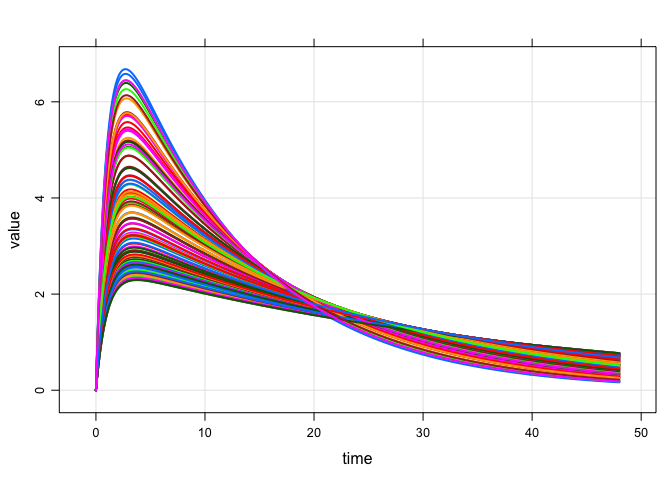
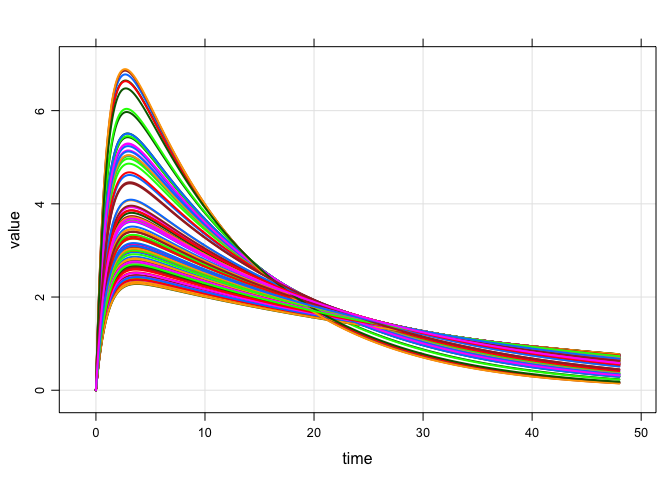
fill in covset.R

diff --git a/misc_demo/covset.md b/misc_demo/covset.md
@@ -70,31 +70,27 @@ mod %>%
 
 ![](img/covset-unnamed-chunk-6-1.png)
 
-``` r
-mod %>% 
-  idata_set(idata, covset="cov2") %>% 
-  simargs %>% lapply(.,head)
-```
-
-    . $idata
-    .   ID GROUP       WT      AGE SEX     FLAG
-    . 1  1     1 97.06778 38.22576   1 28.24057
-    . 2  2     0 93.41336 34.92769   1 33.62317
-    . 3  3     1 59.34391 54.96774   1 28.24057
-    . 4  4     0 76.94537 38.46215   1 33.62317
-    . 5  5     1 88.71913 61.58669   0 28.24057
-    . 6  6     0 50.48138 43.57346   0 33.62317
-
 Working with `covset`
 ---------------------
 
+-   All of the code and workflow that happens "inside" mrgsolve `$ENV` can be implemented in plain old `R`
+
+An "environment" where to find symbols on rhs
+
 ``` r
 e <- as.list(param(mod))
+```
+
+Columns to add to the data set
+
+``` r
 a <- SEX ~ rbinomial(pfe);
 b <- WT[50,100] ~ rnorm(tvwt,40)
 d <- AGE[18,80] ~ rnorm(tvage,20)
 f <- FLAG ~ runif(20,40) | GROUP
 ```
+
+Create the set of covariates that you want to add
 
 ``` r
 cov2 <- covset(d,f,b,a)
@@ -116,6 +112,8 @@ cov2
     . $a
     . [1] "SEX ~ rbinomial(pfe)"
 
+Add covariates to the data
+
 ``` r
 idata %>% mrgsolve:::mutate_random(cov2,envir=e)
 ```
@@ -123,16 +121,16 @@ idata %>% mrgsolve:::mutate_random(cov2,envir=e)
     . # A tibble: 100 × 6
     .       ID GROUP      AGE     FLAG       WT   SEX
     .    <int> <dbl>    <dbl>    <dbl>    <dbl> <dbl>
-    . 1      1     1 56.89700 35.08263 90.49052     1
-    . 2      2     0 20.52915 36.18199 85.44064     0
-    . 3      3     1 20.39806 35.08263 51.62502     0
-    . 4      4     0 23.01154 36.18199 83.46135     0
-    . 5      5     1 34.20830 35.08263 61.99369     1
-    . 6      6     0 67.34234 36.18199 57.98716     1
-    . 7      7     1 29.96251 35.08263 88.32505     0
-    . 8      8     0 25.26993 36.18199 50.81628     1
-    . 9      9     1 66.45105 35.08263 64.45956     0
-    . 10    10     0 62.28655 36.18199 59.65328     1
+    . 1      1     1 44.84579 24.58397 75.91064     1
+    . 2      2     0 72.24736 34.09395 85.44513     1
+    . 3      3     1 57.82068 24.58397 64.81275     1
+    . 4      4     0 59.10636 34.09395 65.99530     1
+    . 5      5     1 65.03113 24.58397 62.37623     0
+    . 6      6     0 37.65363 34.09395 58.28292     1
+    . 7      7     1 53.40942 24.58397 58.84919     0
+    . 8      8     0 55.66629 34.09395 83.10690     0
+    . 9      9     1 44.10355 24.58397 79.84439     1
+    . 10    10     0 57.92789 34.09395 86.38993     0
     . # ... with 90 more rows
 
 Other ways to use `$ENV`
